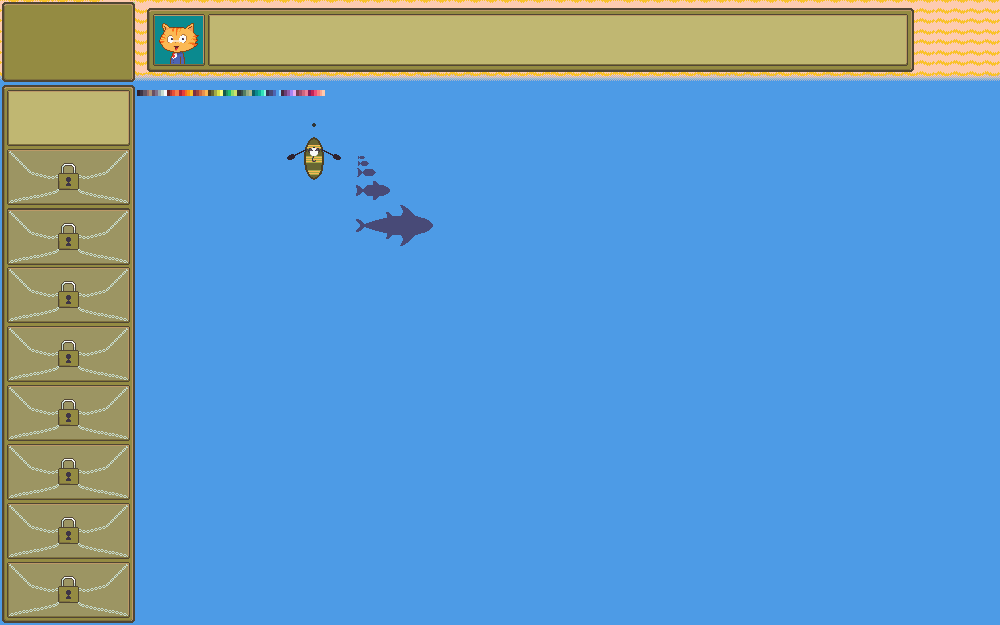
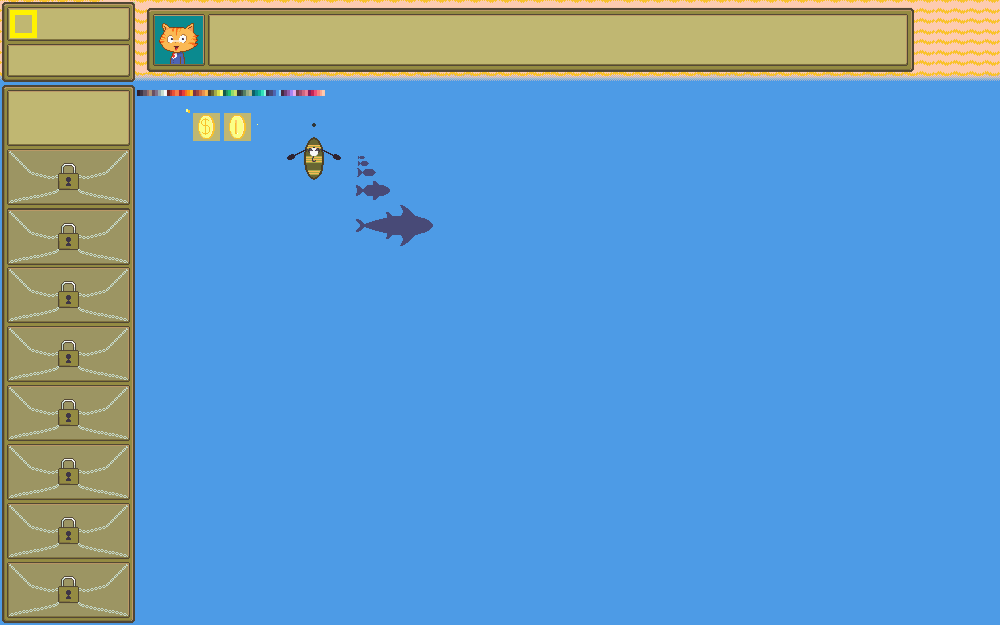
:construction:feat:Dinheiro

Changed region(s): [[0.0, 0.0, 0.155, 0.1216], [0.186, 0.1824, 0.248, 0.2432]]

diff --git a/pescaria.py b/pescaria.py
@@ -319,22 +319,25 @@ def colisoes():
         return False
     
     if colisaoIsca is True:
+        global peixeCapturado
+        peixeCapturado = pygame.sprite.spritecollideany(isca.sprite, peixes)
         if pygame.sprite.spritecollide(isca.sprite, peixes, True) and puxarIsca is False:  # Remove o peixe colidido.
             puxarIsca = True
             colisaoIsca = False
 
 dinheiro = 0
+peixeCapturado = None
 
 def dinheiroConsultaImpressao():
     global dinheiro
-    dinherioSurface = fonte.render(f'{dinheiro}$', False, (22, 23, 26))
-    dinheiroRect = dinherioSurface.get_rect(center = (400, 40))
+    dinherioSurface = pygame.transform.scale_by(fonte.render(f'{dinheiro}SSSs', False, (250, 250, 250)), 2)
+    dinheiroRect = dinherioSurface.get_rect(center = (100, 23))
     screen.blit(dinherioSurface, dinheiroRect)
     return dinheiro
 
 def dinheiroReceber():
-    global dinheiro
-    dinheiro += 1
+    global dinheiro, peixeCapturado
+    dinheiro += peixeCapturado.tamanho * 2
 
 # Eventos pygame:
 def processarEventos():